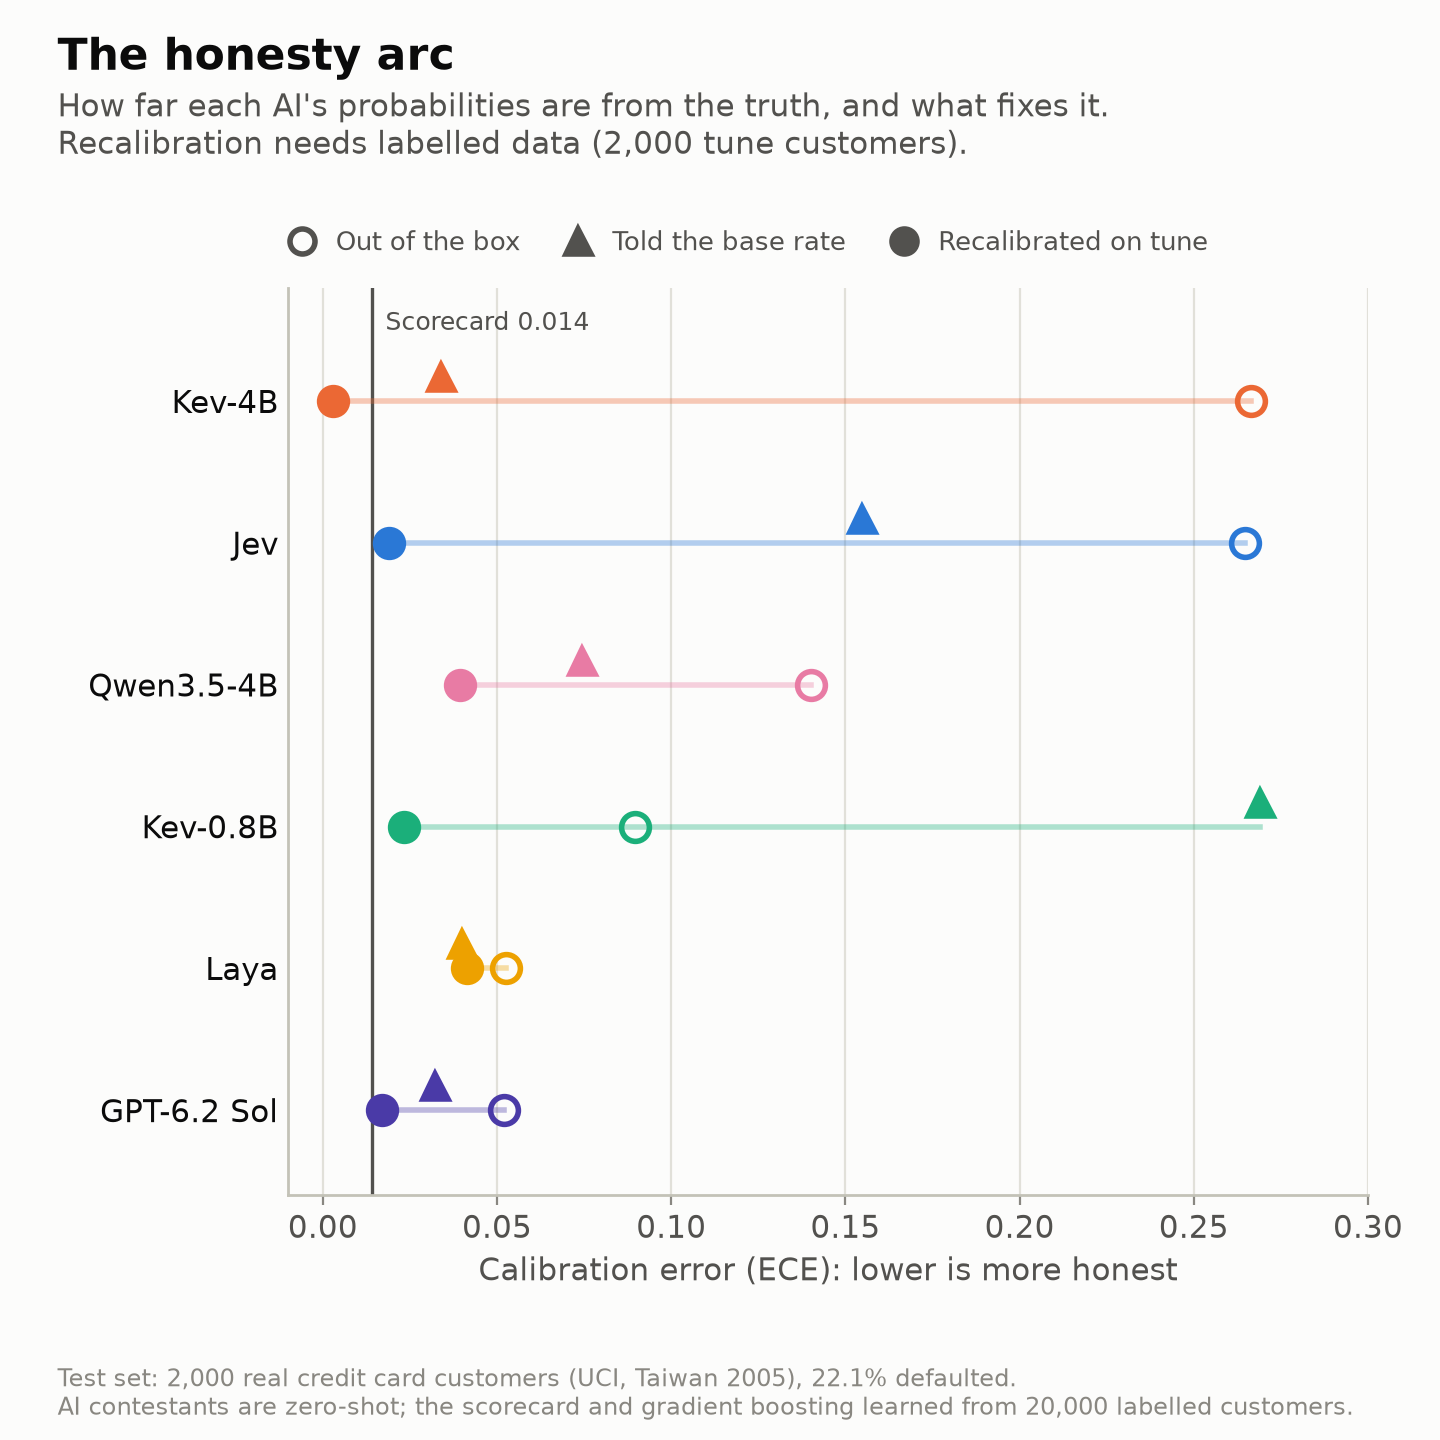
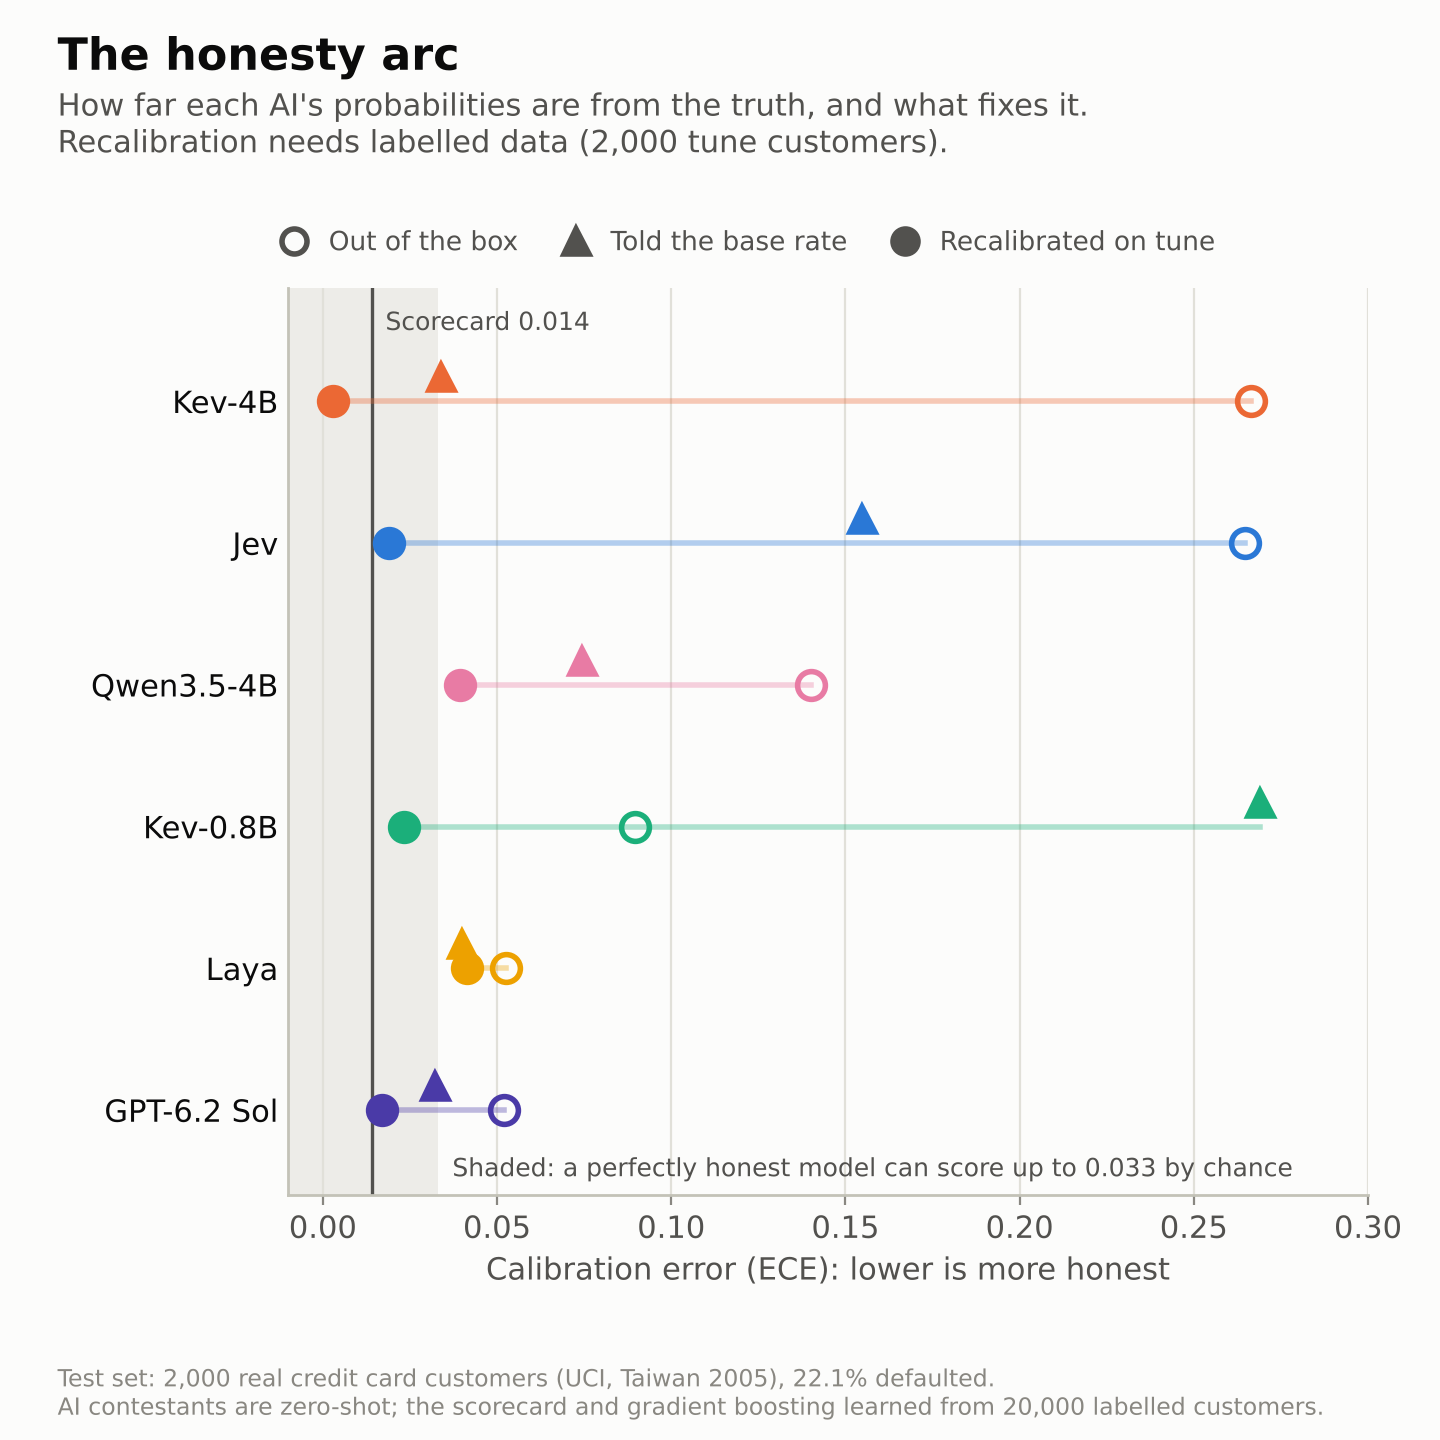
Pre-launch site fixes: link previews, comments and analytics hooks, tidy-up
Link previews: head.html reads description, image and image_alt from front
matter (falls back to the excerpt and to og_image in _config.yml), adds
og:image and twitter:image, and uses the large X card when there is an image.
The home page preview uses the site title instead of "Home". The site
description is shorter and plain text, so previews no longer cut it off.

Review post: description, a 1200x630 social card built from the experiment
data, and the predictions table now says "helped four (Qwen's numbers at a
cost to its ranking)", matching finding 2. The honesty arc chart shades where
a perfectly honest model can land by chance (noise floor, up to 0.033).

Comments: Giscus include, off until giscus.repo_id and category_id are set,
never shown on review copies. Analytics: GoatCounter next to GA4, off until
goatcounter_code is set.

Tidy-up: .venv untracked and ignored, x.com links, TODO.md is now the launch
checklist (with a note on the notebook pipeline republishing old notebooks).

Claude-Session: https://claude.ai/code/session_017326nQb1wCwAkhYisPWzPL

diff --git a/_includes/head.html b/_includes/head.html
@@ -10,26 +10,48 @@
     {% endif %}
   </title>
 
-  {% assign page_description = page.excerpt | default: site.description | strip_html | strip_newlines | truncate: 160 %}
+  {% comment %}
+    Link previews. Per page, set in front matter:
+      description: one or two sentences, under 160 characters (else the first paragraph is used)
+      image:       path to a 1200x630 card, e.g. /public/images/<post>/social-card.png
+      image_alt:   what the card shows, for screen readers
+    Site-wide fallback image: og_image in _config.yml.
+  {% endcomment %}
+  {% if page.url == "/" %}
+    {% assign page_title = site.title %}
+  {% else %}
+    {% assign page_title = page.title | default: site.title %}
+  {% endif %}
+  {% assign page_description = page.description | default: page.excerpt | default: site.description | strip_html | strip_newlines | strip | truncate: 160 %}
+  {% assign page_image = page.image | default: site.og_image %}
+  {% assign page_image_alt = page.image_alt | default: page_title %}
 
-  <meta name="description" content="{{ page_description }}">
+  <meta name="description" content="{{ page_description | escape }}">
 
   <!-- Open Graph -->
-  <meta property="og:title"       content="{% if page.title %}{{ page.title }}{% else %}{{ site.title }}{% endif %}">
-  <meta property="og:description" content="{{ page_description }}">
+  <meta property="og:title"       content="{{ page_title | escape }}">
+  <meta property="og:description" content="{{ page_description | escape }}">
   <meta property="og:url"         content="{{ page.url | absolute_url }}">
   <meta property="og:site_name"   content="{{ site.title }}">
   <meta property="og:type"        content="{% if page.layout == 'post' %}article{% else %}website{% endif %}">
+  {% if page_image %}
+  <meta property="og:image"       content="{{ page_image | absolute_url }}">
+  <meta property="og:image:alt"   content="{{ page_image_alt | escape }}">
+  {% endif %}
   {% if page.layout == 'post' %}
   <meta property="article:published_time" content="{{ page.date | date_to_xmlschema }}">
   {% endif %}
 
-  <!-- Twitter Card -->
-  <meta name="twitter:card"        content="summary">
+  <!-- Twitter / X card: large image when the page has one -->
+  <meta name="twitter:card"        content="{% if page_image %}summary_large_image{% else %}summary{% endif %}">
   <meta name="twitter:site"        content="@nishzsche">
   <meta name="twitter:creator"     content="@nishzsche">
-  <meta name="twitter:title"       content="{% if page.title %}{{ page.title }}{% else %}{{ site.title }}{% endif %}">
-  <meta name="twitter:description" content="{{ page_description }}">
+  <meta name="twitter:title"       content="{{ page_title | escape }}">
+  <meta name="twitter:description" content="{{ page_description | escape }}">
+  {% if page_image %}
+  <meta name="twitter:image"       content="{{ page_image | absolute_url }}">
+  <meta name="twitter:image:alt"   content="{{ page_image_alt | escape }}">
+  {% endif %}
 
   <!-- Canonical -->
   <link rel="canonical" href="{{ page.url | absolute_url }}">
@@ -54,7 +76,10 @@
   <!-- RSS -->
   <link rel="alternate" type="application/rss+xml" title="RSS" href="{{ '/atom.xml' | absolute_url }}">
 
-  <!-- Google Analytics (GA4) -->
+  <!-- Analytics: switched on by goatcounter_code or google_analytics_id in _config.yml -->
+  {% if site.goatcounter_code %}
+  <script data-goatcounter="https://{{ site.goatcounter_code }}.goatcounter.com/count" async src="//gc.zgo.at/count.js"></script>
+  {% endif %}
   {% if site.google_analytics_id %}
   <script async src="https://www.googletagmanager.com/gtag/js?id={{ site.google_analytics_id }}"></script>
   <script>

diff --git a/_includes/comments.html b/_includes/comments.html
@@ -1,0 +1,25 @@
+{% comment %}
+  Giscus comments, stored as GitHub Discussions on this repo. Nothing renders until
+  giscus.repo_id and giscus.category_id are set in _config.yml (values from https://giscus.app).
+  Hidden on review copies (noindex: true) and on any page with comments: false.
+{% endcomment %}
+{% if site.giscus.repo_id and site.giscus.category_id and page.comments != false and page.noindex != true %}
+<section class="comments">
+  <script src="https://giscus.app/client.js"
+          data-repo="{{ site.giscus.repo }}"
+          data-repo-id="{{ site.giscus.repo_id }}"
+          data-category="{{ site.giscus.category }}"
+          data-category-id="{{ site.giscus.category_id }}"
+          data-mapping="pathname"
+          data-strict="1"
+          data-reactions-enabled="1"
+          data-emit-metadata="0"
+          data-input-position="top"
+          data-theme="light"
+          data-lang="en"
+          data-loading="lazy"
+          crossorigin="anonymous"
+          async>
+  </script>
+</section>
+{% endif %}

diff --git a/public/css/main.css b/public/css/main.css
@@ -441,6 +441,17 @@ tbody tr:nth-child(even) td { background: #fafafb; }
 
 
 /* -------------------------
+   Comments (Giscus)
+   ------------------------- */
+
+.comments {
+  margin-top: 4rem;
+  padding-top: 2rem;
+  border-top: 1px dashed var(--border);
+}
+
+
+/* -------------------------
    Footer
    ------------------------- */
 

diff --git a/_layouts/post.html b/_layouts/post.html
@@ -18,4 +18,6 @@ layout: default
   <div class="post-content">
     {{ content }}
   </div>
+
+  {% include comments.html %}
 </article>

diff --git a/TODO.md b/TODO.md
@@ -1,19 +1,25 @@
-# Tech Blog
+# To do
 
-This project automates publishing of technical blogs from jupyter notebooks to gihub pages.
+### Launch: "Can AI know when it's wrong?"
 
-<em>[TODO.md spec & Kanban Board](https://bit.ly/3fCwKfM)</em>
+- [ ] Analytics: create a free site at goatcounter.com and set `goatcounter_code` in `_config.yml`
+- [ ] Comments: enable Discussions in the repo settings, install the giscus app, fill in `giscus.repo_id` and `giscus.category_id` in `_config.yml`
+- [ ] Move `review/can-ai-know-when-its-wrong.md` to `_posts/YYYY-MM-DD-can-ai-know-when-its-wrong.md`
+  - drop `permalink`, `noindex` and `hypothesis` from the front matter, and set `date`
+  - remove the "Draft for review" note at the top
+  - keep `description`, `image` and `image_alt` (they drive the link preview)
+- [ ] Check the preview after deploy: LinkedIn Post Inspector and opengraph.xyz
+- [ ] Update the About page background
 
-### Todo
+### Site
 
-- [ ] Clean pip install cells  
-- [ ] Remove google colab cells  
-- [ ] Extract title from the file name  
-
-### In Progress
-
+- [ ] Notebook pipeline: any push to `dev` that touches `notebooks/*.ipynb` re-converts every notebook into a new, today-dated post in `_posts/`, then merges `dev` into `gh-pages`. Decide whether the two old notebooks should be published before the first notebook change, or move them out of `notebooks/`
+- [ ] Remove `_includes/sidebar.html` (left over from Lanyon, not used by any layout)
 
 ### Done ✓
 
-- [x] Change index page format to publish blogs one by one  
-
+- [x] Link previews: per-page description and 1200x630 image, large X card
+- [x] Clean pip install cells (in the notebook workflow)
+- [x] Remove Google Colab cells (in the notebook workflow)
+- [x] Extract the title from the file name (in the notebook workflow)
+- [x] Change index page format to publish blogs one by one

diff --git a/review/can-ai-know-when-its-wrong.md b/review/can-ai-know-when-its-wrong.md
@@ -3,6 +3,9 @@ layout: post
 title: "Can AI know when it's wrong? I tested Jev and 7 other models on 2,000 real credit-card customers"
 date: 2026-11-23
 tags: [probability]
+description: "I asked Jev and 7 other models how likely 2,000 real credit-card customers were to default, then checked whether their percentages came true."
+image: /public/images/can-ai-know-when-its-wrong/social-card.png
+image_alt: "Chart: Jev said 48% of these customers would default, and 22% did. A trained scorecard stays close to the honest diagonal."
 permalink: /review/can-ai-know-when-its-wrong/
 # Review copy: not listed on the home page or in the feed, hidden from search engines,
 # with Hypothesis loaded for comments. To launch, move it to _posts/ and drop these three.
@@ -159,7 +162,7 @@ Before running anything, I wrote down my guesses and committed them to the repos
 |---|---|
 | Jev would be the most honest | ✗ Out of the box, its percentages ran about 26 points high |
 | Laya would be the least honest | ✗ Laya was among the closest on average |
-| Telling the base rate would help most models | ✓ Mostly: it clearly helped four, made no clear difference to one, and broke one |
+| Telling the base rate would help most models | ✓ Mostly: it helped four (Qwen's numbers at a cost to its ranking), made no clear difference to one, and broke one |
 | At least one AI model would beat the scorecard at ranking | ✗ None did |
 
 One out of four. Which is rather the point: confident guesses need checking.

diff --git a/about.md b/about.md
@@ -38,4 +38,4 @@ Working through physical rehabilitation post traumatic injuries - swimming is pa
 
 ---
 
-[LinkedIn](https://www.linkedin.com/in/nishanthrajamani) &middot; [GitHub](https://github.com/nishzsche) &middot; [Twitter / X](https://twitter.com/nishzsche)
+[LinkedIn](https://www.linkedin.com/in/nishanthrajamani) &middot; [GitHub](https://github.com/nishzsche) &middot; [X](https://x.com/nishzsche)
